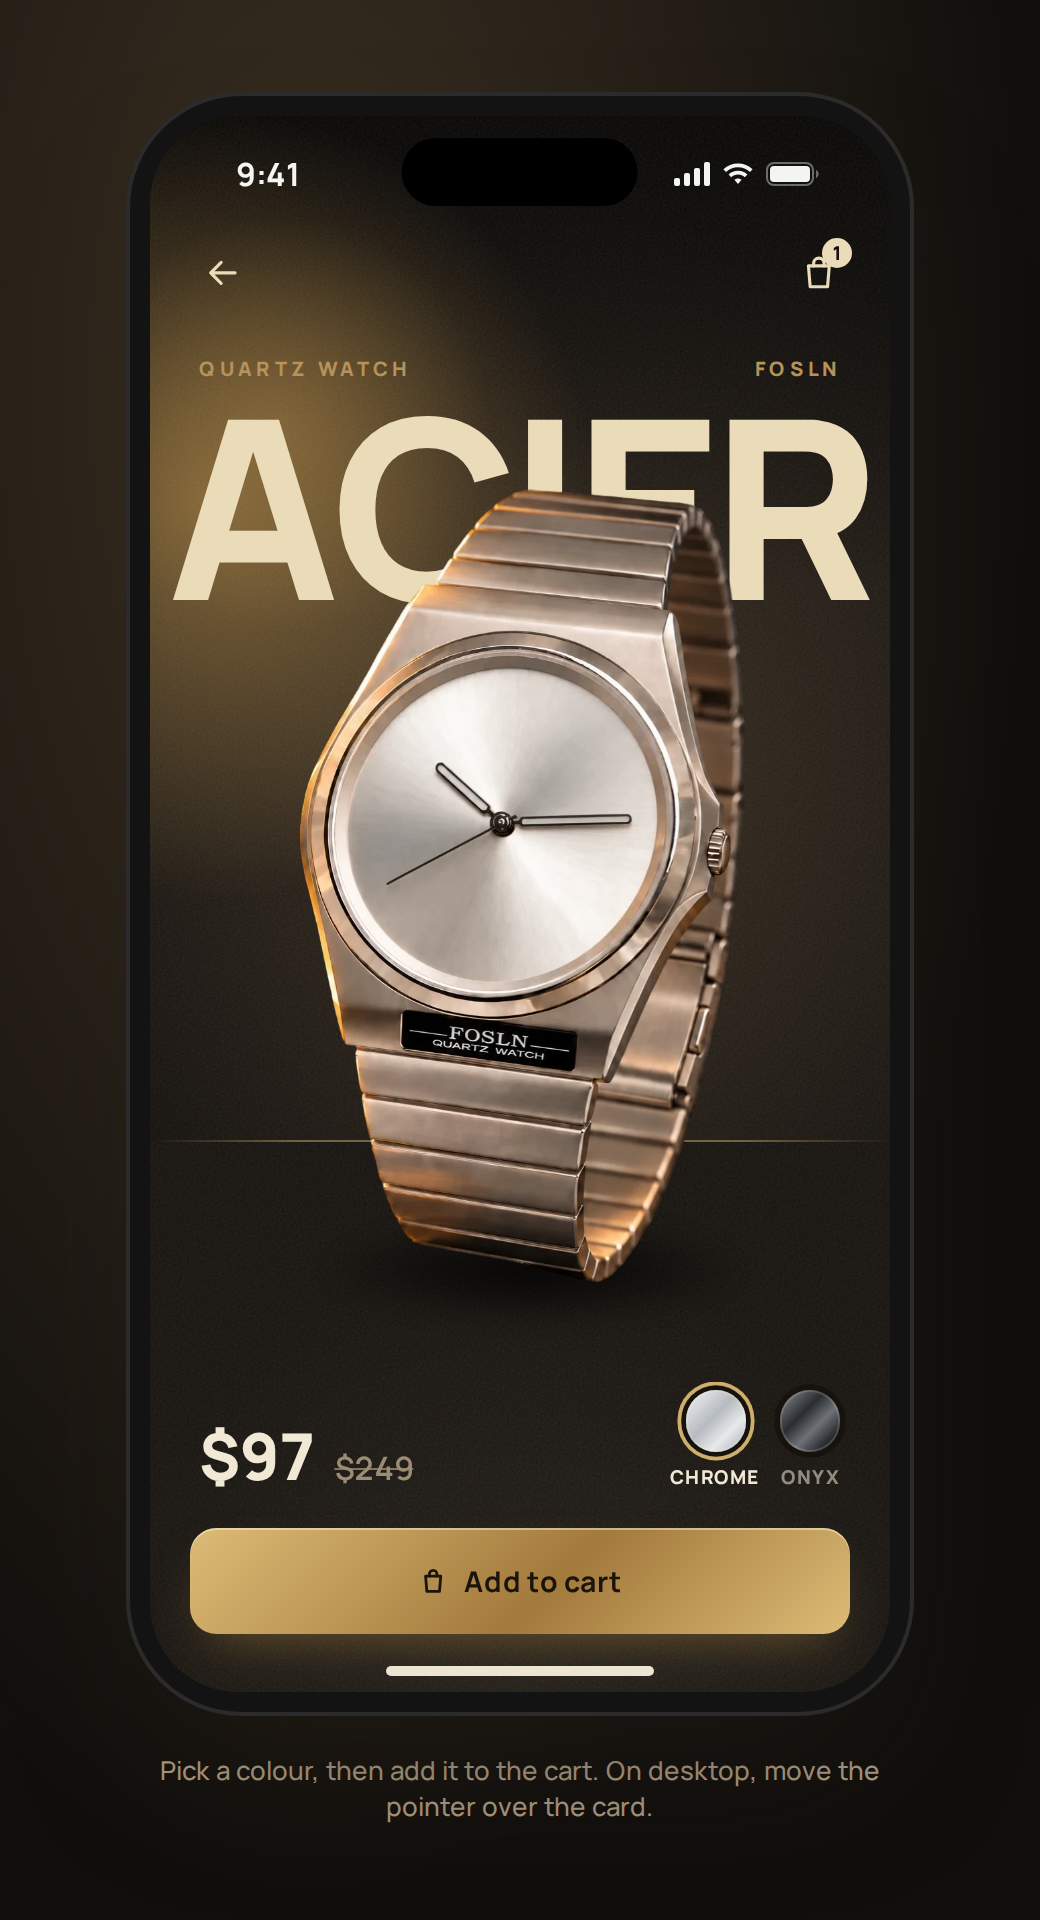
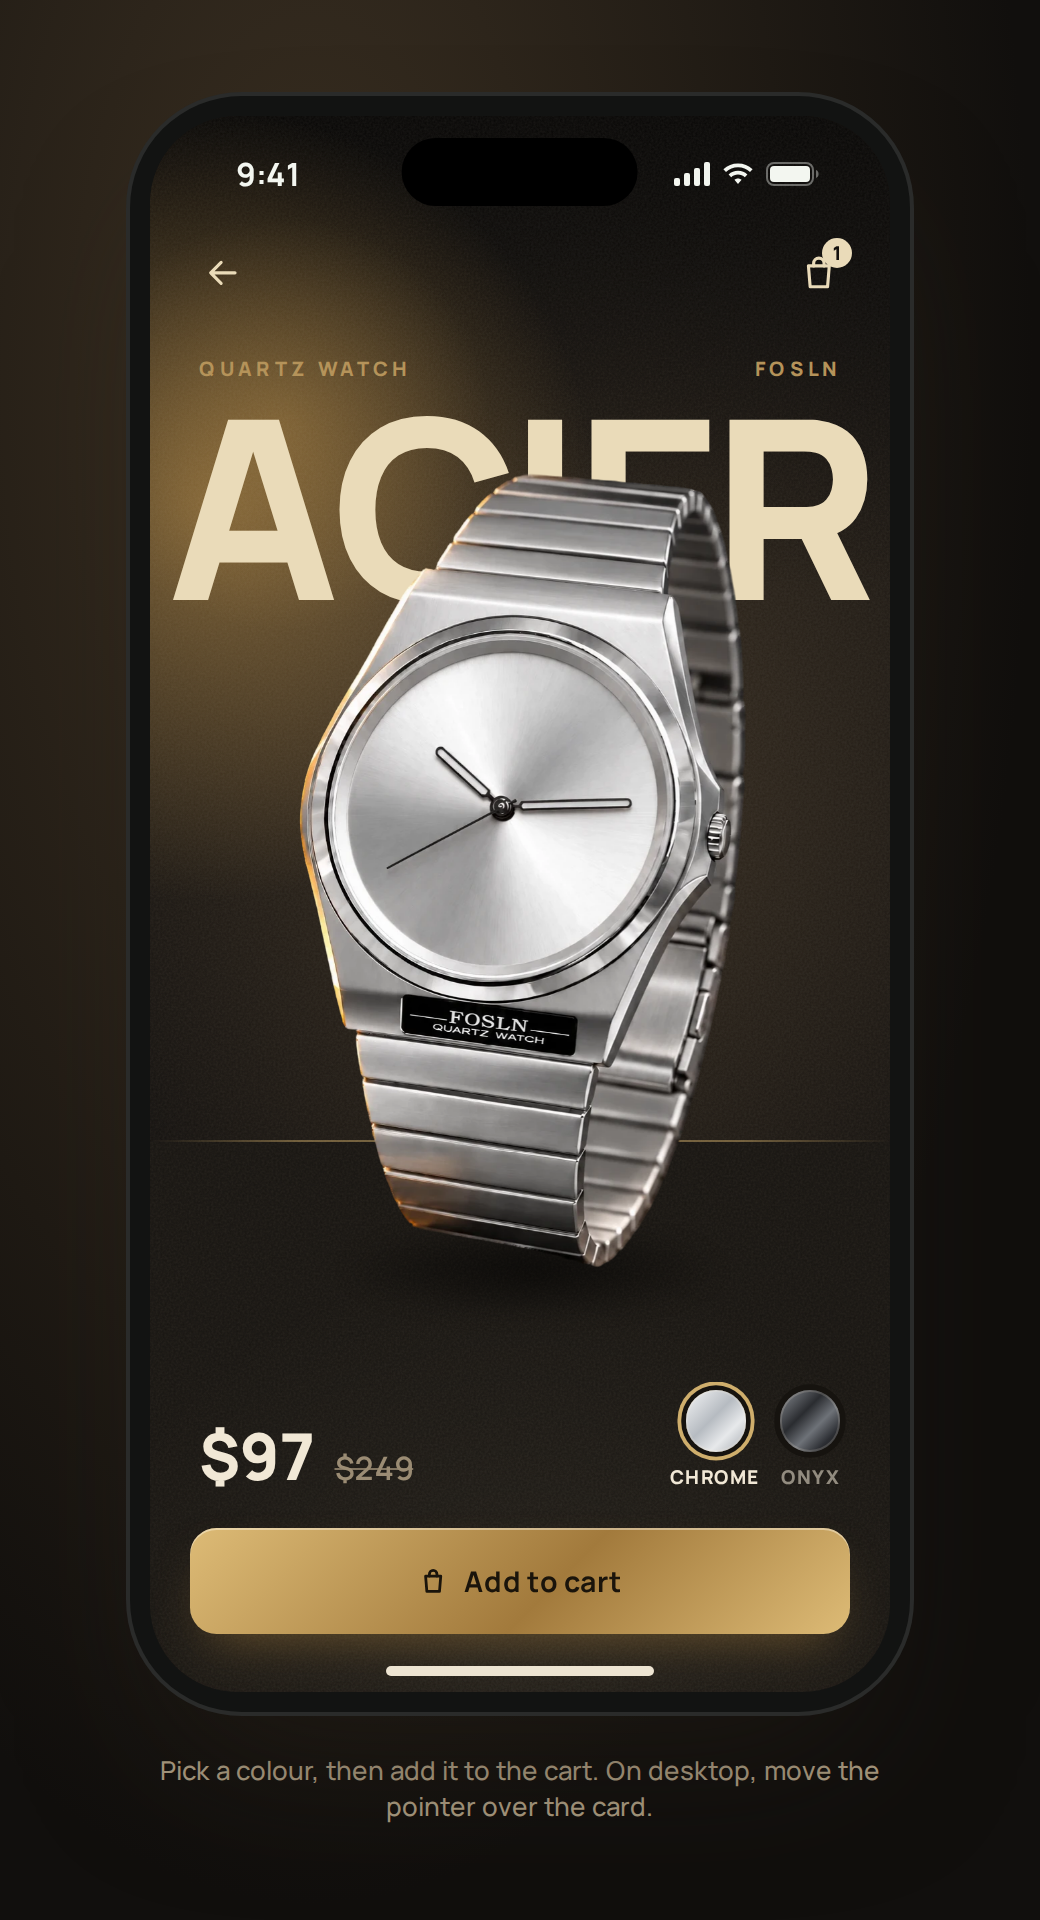
Product card (watch): final product photos
Swap both colourway images for cut-outs of the final photos: the
chrome-dial and black-dial watch in true silver steel on dark rock with
warm rim light. Same framing and 671 x 1191 canvas as before, so layout
and sizes are unchanged.

Claude-Session: https://claude.ai/code/session_01USNSbaj4fcY1X4jUF4TLUx

Changed region(s): [[0.2769, 0.25, 0.7385, 0.6875]]

diff --git a/components/product-card-watch/README.md b/components/product-card-watch/README.md
@@ -12,7 +12,7 @@ The watch edition of the [product card](../product-card/), for the FOSLN ACIER q
   - a fine stone grain over the stage and footer
   - a warm glow from the upper left
   - a thin gold line where the stage meets the footer
-  - the watch photos themselves shot on dark rock in the same golden light
+  - the watch photos themselves shot on dark rock with warm rim light
 - **Colours:** two colourways, named after the dial:
   - **Chrome, golden hour:** stone black with an amber glow, a champagne wordmark, gold spec line and a gold button. It uses the chrome-dial photo.
   - **Onyx, after dark:** deeper and cooler, the glow down to an ember, an ivory wordmark and a silver button. It uses the black-dial photo.
@@ -204,6 +204,6 @@ The `shopify/` folder turns the card into a theme section for a real product.
 
 ## Product images
 
-Both cut-outs are transparent WebP files cut from a matched pair of product photos: the chrome-dial and black-dial watch, shot on dark rock in warm golden light from the same angle. They share one canvas (671 × 1191) with the watch in exactly the same place, so switching colourways only changes the dial. The photos are already warm, so `--ui-wcard-tone` is `none`. Set it to something like `sepia(0.16) saturate(1.15)` to warm a cooler studio shot.
+Both cut-outs are transparent WebP files cut from a matched pair of product photos: the chrome-dial and black-dial watch, shot on dark rock in warm golden light from the same angle. They share one canvas (671 × 1191) with the watch in exactly the same place, so switching colourways only changes the dial. The steel keeps its true silver, with warm rim light from the scene, so `--ui-wcard-tone` is `none`. Set it to something like `sepia(0.16) saturate(1.15)` if you want the steel itself warmed.
 
 To use another product, export a transparent PNG/WebP per colourway. If the aspect is different, update `aspect-ratio`, `width` and `top` on `.ui-wcard__media`. If the wordmark has a different number of letters, adjust `font-size` on `.ui-wcard__title`; it's 132 units for five letters, and the original card uses 140 for four.
